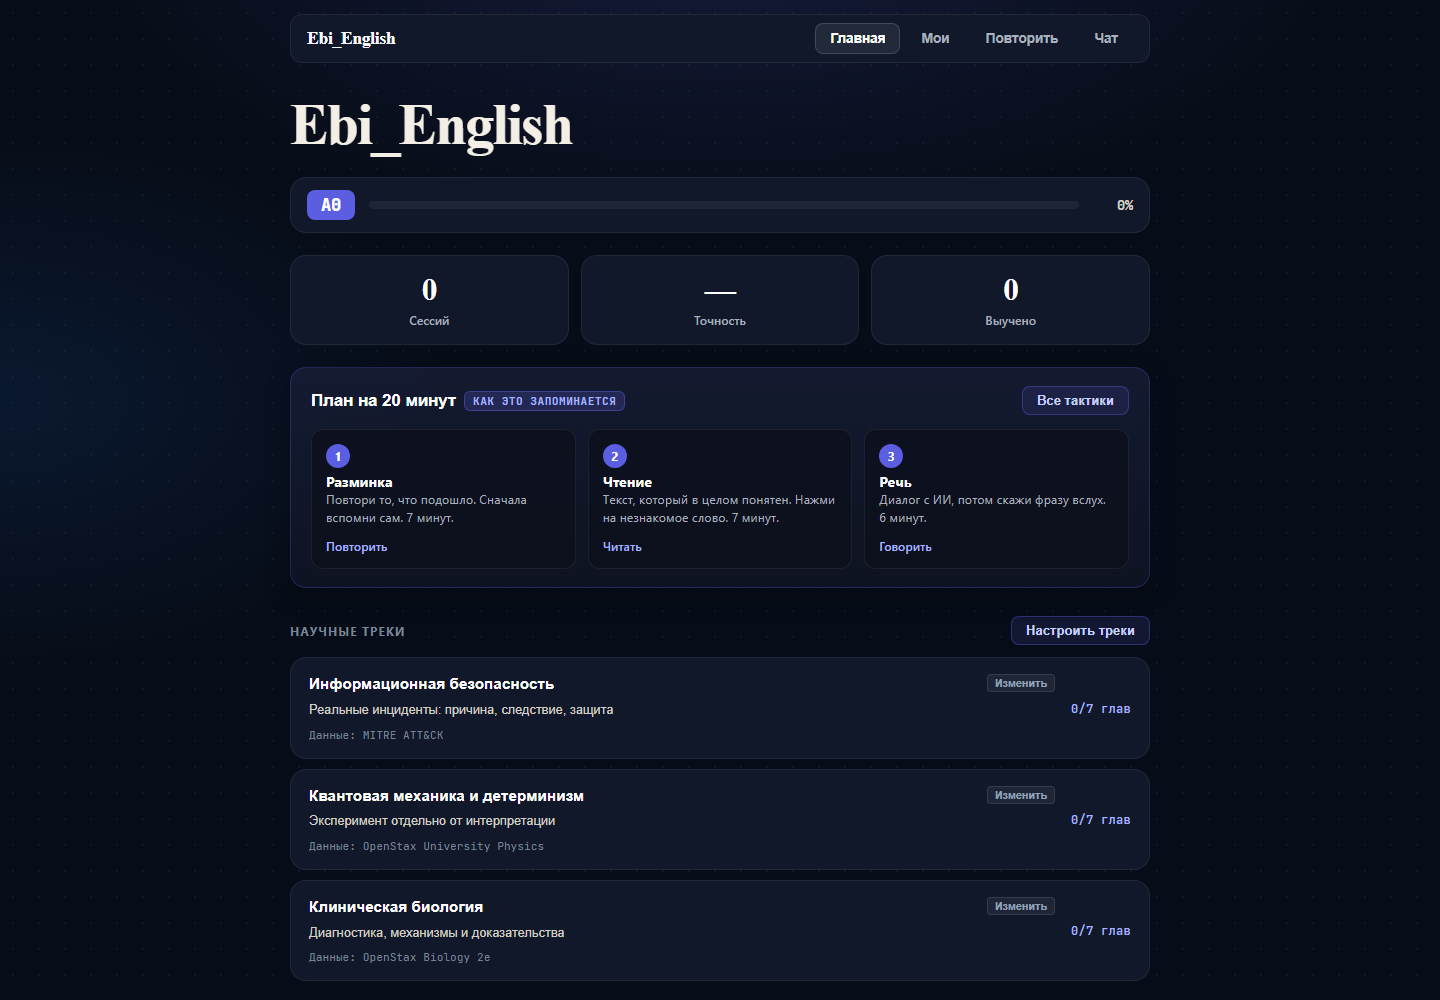
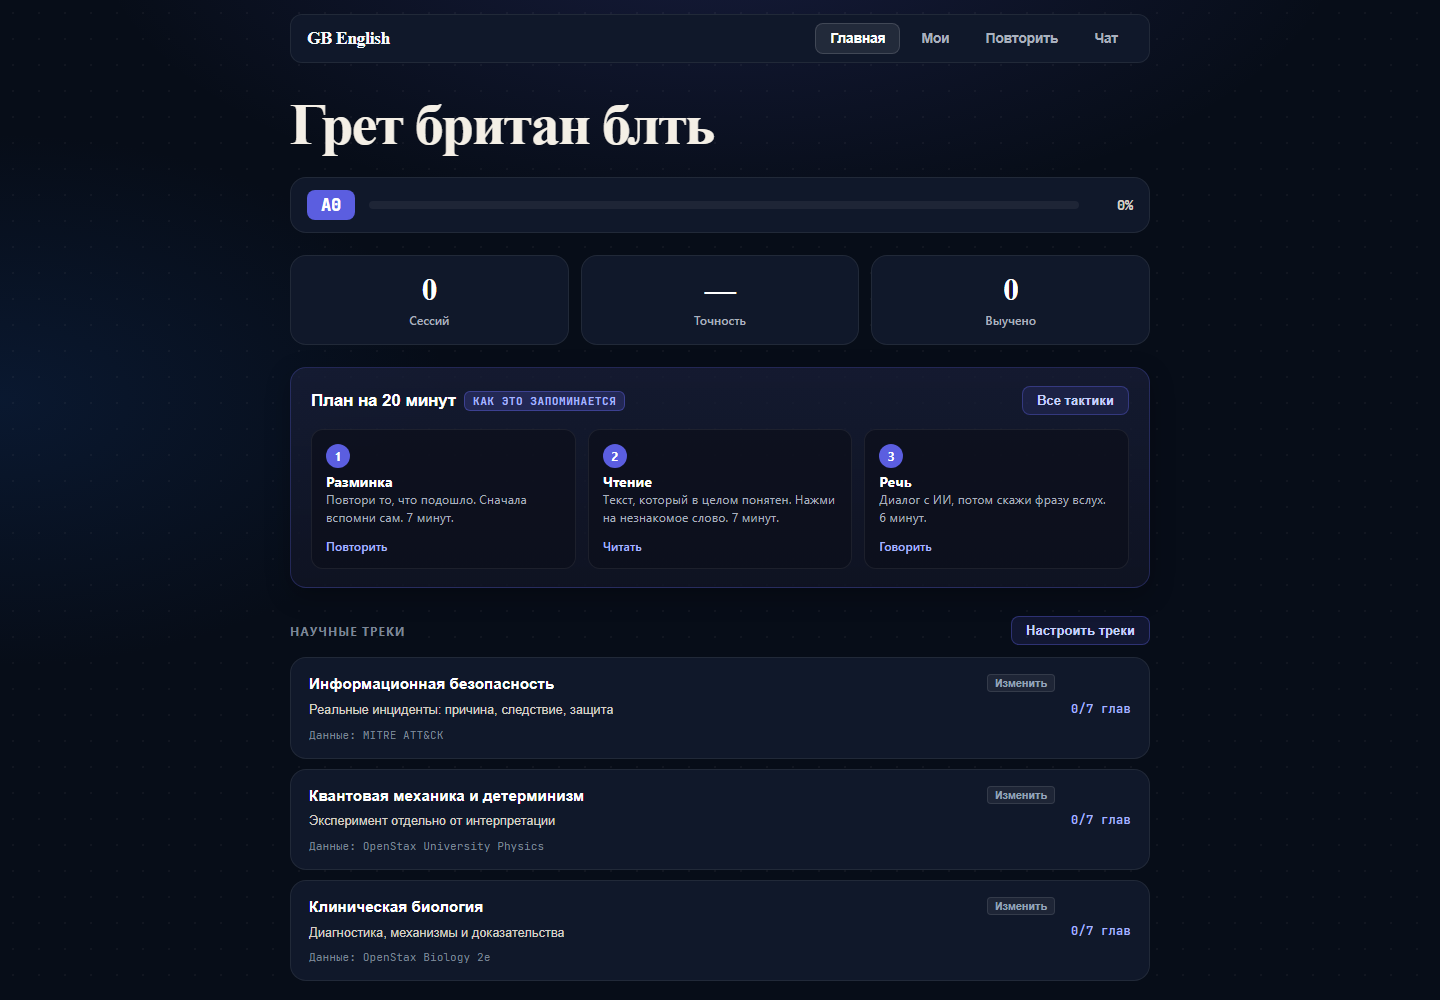
Сохранить авторское название приложения

Changed region(s): [[0.2188, 0.093, 0.5, 0.155], [0.2188, 0.031, 0.2812, 0.062]]

diff --git a/index.html b/index.html
@@ -4,7 +4,7 @@
     <meta charset="UTF-8" />
     <meta name="viewport" content="width=device-width, initial-scale=1.0" />
     <link rel="icon" href="data:," />
-    <title>Ebi_English — английский каждый день</title>
+    <title>GB English Cards</title>
     <meta name="description" content="Ebi_English: карточки с интервальным повторением, грамматика, чтение PDF/DOCX/TXT, аудио и разговор с ИИ. Основные упражнения работают локально в браузере." />
     <meta property="og:title" content="Ebi_English — английский каждый день" />
     <meta property="og:description" content="11 124 карточки, 300 колод, грамматика, чтение и ИИ-практика в одном браузерном приложении." />
@@ -3349,7 +3349,7 @@
   </head>
   <body>
     <div class="topbar" role="banner">
-      <div class="logo">Ebi_English</div>
+      <div class="logo">GB English</div>
       <div class="nav-btns" role="navigation" aria-label="Основные разделы">
         <button class="nav-btn active" onclick="showScreen('home')">Главная</button>
         <button class="nav-btn" onclick="showScreen('mycards')">Мои</button>
@@ -3361,7 +3361,7 @@
     <!-- ГЛАВНАЯ -->
     <div class="screen active legacy-home" id="screen-home" role="main">
       <header class="masthead" role="presentation">
-        <h1 class="masthead-title">Ebi_English</h1>
+        <h1 class="masthead-title">Грет британ блть</h1>
       </header>
       <div
         class="level-widget"

diff --git a/dev/test_audit.js b/dev/test_audit.js
@@ -32,8 +32,9 @@ const delay = ms => new Promise(resolve => setTimeout(resolve, ms));
   }
   const { page, context, errors } = await open();
   await test('initial content and screens', async () => {
-    assert((await page.title()).startsWith('Ebi_English'));
-    assert.equal(await page.locator('.logo').textContent(), 'Ebi_English');
+    assert.equal(await page.title(), 'GB English Cards');
+    assert.equal(await page.locator('.logo').textContent(), 'GB English');
+    assert.equal(await page.locator('.masthead-title').textContent(), 'Грет британ блть');
     assert.equal(await page.evaluate(() => Object.keys(VOCAB).length), 300);
     for (const screen of ['mycards', 'stats', 'freechat', 'home']) {
       await page.evaluate(screen => showScreen(screen), screen);

diff --git a/main.py b/main.py
@@ -1,6 +1,6 @@
 #!/usr/bin/env python3
 """
-Ebi_English — адаптивное изучение английского по карточкам.
+English Flashcard App — адаптивное изучение английского по карточкам.
 Алгоритм SM-2: чем чаще ошибаешься — тем чаще карточка повторяется.
 """
 
@@ -177,7 +177,7 @@ def cards_to_review(all_cards, progress):
 def print_header():
     clear()
     print(color("╔══════════════════════════════════════════╗", C.CYAN, C.BOLD))
-    print(color("║          Ebi_English — с нуля           ║", C.CYAN, C.BOLD))
+    print(color("║       ENGLISH FLASHCARDS — с нуля       ║", C.CYAN, C.BOLD))
     print(color("╚══════════════════════════════════════════╝", C.CYAN, C.BOLD))
     print()
 

diff --git a/README.md b/README.md
@@ -4,6 +4,8 @@
 
 Ebi_English — тренажёр английского для русскоязычных пользователей: **11 124 карточки в 300 колодах**, интервальные повторения, грамматика, чтение документов, аудио и необязательный ИИ-преподаватель. Интерфейс и подсказки на русском.
 
+Название репозитория — **Ebi_English**. В интерфейсе сохранено авторское название **«Грет британ блть»** и логотип **GB English**.
+
 [![Проверки](https://github.com/madnessbrainsbl/Ebi_English/actions/workflows/test.yml/badge.svg)](https://github.com/madnessbrainsbl/Ebi_English/actions/workflows/test.yml)
 [![Лицензия кода: MIT](https://img.shields.io/badge/код-MIT-blue.svg)](LICENSE)
 [![Без сборки](https://img.shields.io/badge/запуск-без_сборки-5b5ee0.svg)](index.html)
